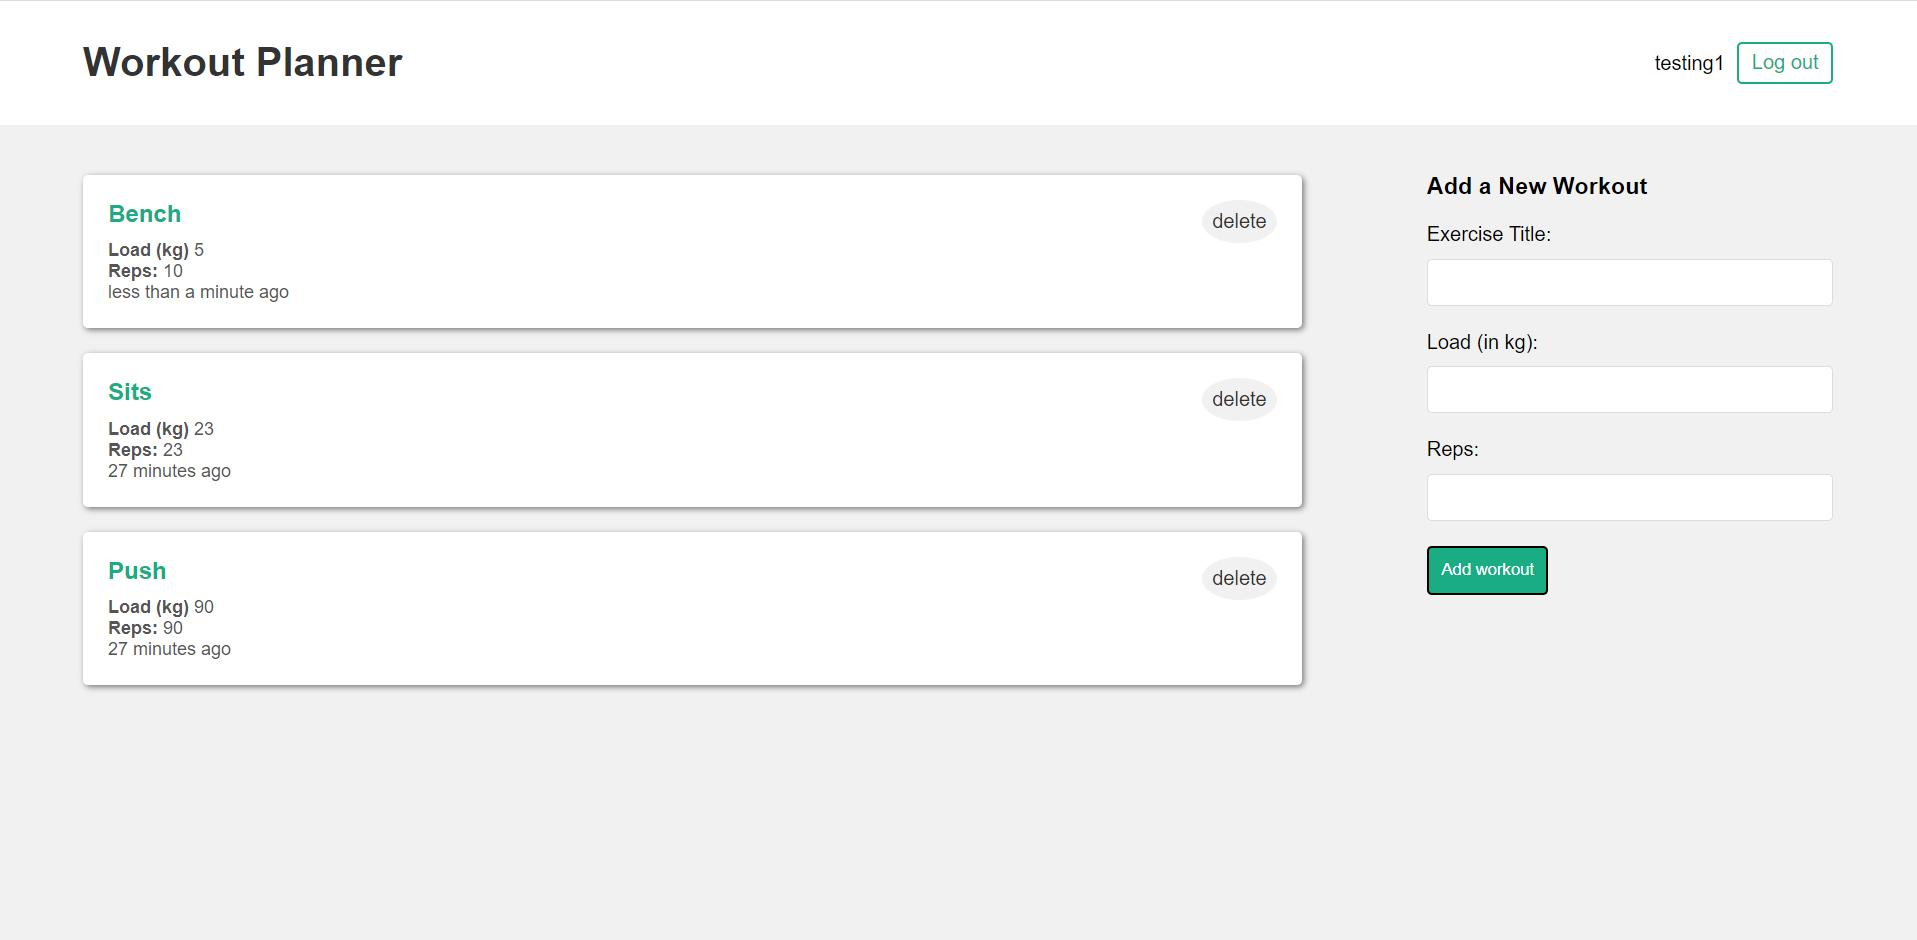
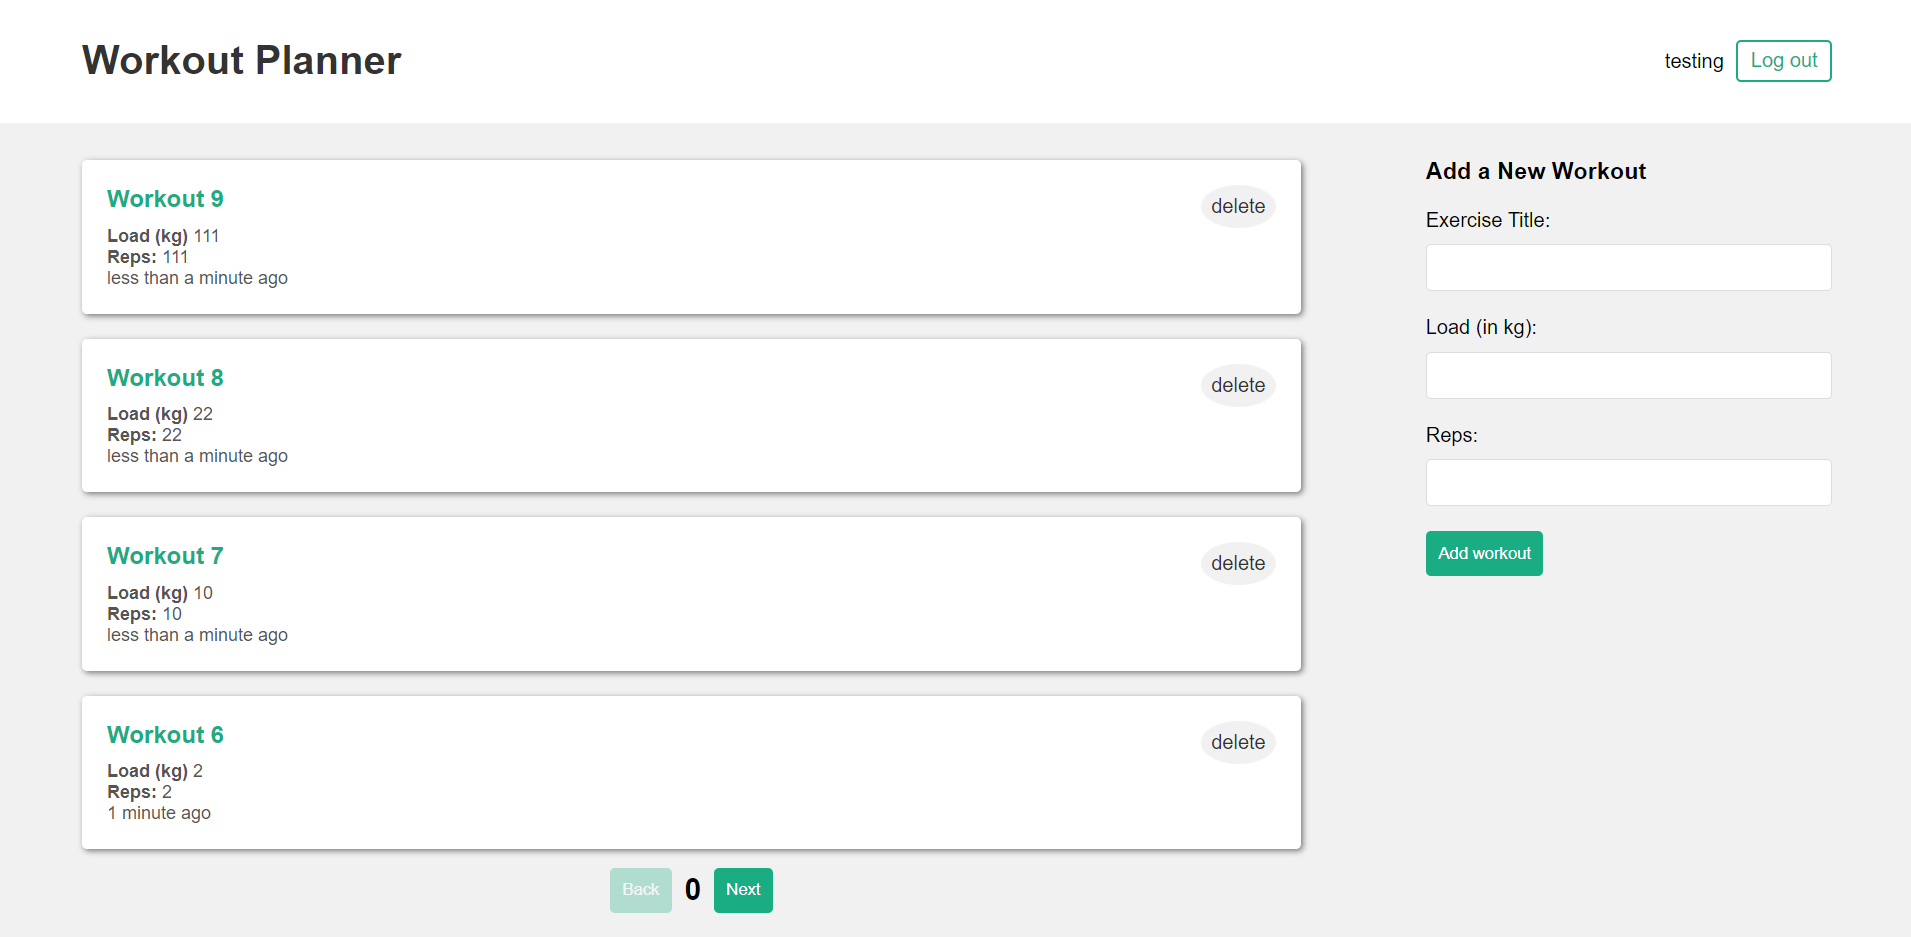
Implemented server side pagination and updated the readMe

diff --git a/frontend/src/pages/Home.js b/frontend/src/pages/Home.js
@@ -1,43 +1,76 @@
-import { useEffect } from "react";
+import { useEffect, useState } from "react";
 import { useWorkoutsContext } from "../hooks/useWorkoutsContext";
-import {useAuthContext} from "../hooks/useAuthContext.js";
+import { useAuthContext } from "../hooks/useAuthContext.js";
 
 //components
 import WorkoutDetails from "../components/WorkoutDetails";
 import WorkoutForm from "../components/WorkoutForm";
 
-const Home = () => {
-    const {workouts, dispatch} = useWorkoutsContext();
-    const {user} = useAuthContext();
+const Home = (props) => {
+    const { workouts, dispatch } = useWorkoutsContext();
+    const { user } = useAuthContext();
+    //determine if there are anymore pages to go to
+    const [ended, setEnded] = useState(false);
+    const [refresh, setRefresh] = useState(false);
+    const [maxPage, setMaxPage] = useState(0);
 
     //fetch all workouts only once, when the component first renders
-    useEffect( () => {
+    useEffect(() => {
         const fetchWorkouts = async () => {
-            const response = await fetch("/api/workouts", {
+            const response = await fetch("/api/workouts/?page=" + props.page + "&size=" + props.size, {
                 headers: {
                     "Authorization": `Bearer ${user.token}`,
                 },
             });
             const data = await response.json();
-
+        
             if (response.ok) {
                 //using context to store all the info
-                dispatch({type:"SET_WORKOUTS", payload: data});
+                dispatch({ type: "SET_WORKOUTS", payload: data.workouts });
+                setEnded(data.ended);
+            } else {
+                console.log("Error: " + data.error);
             }
         }
         if (user) {
             fetchWorkouts();
         }
-    }, [dispatch, user]);
+    }, [dispatch, user, props.page, props.size, refresh]);
 
-    return ( 
+    const nextPage = () => {
+        props.setPage(props.page + 1);
+    }
+
+    const backPage = () => {
+        if (props.page > 1) {
+            props.setPage(props.page - 1);
+        } else {
+            props.setPage(0);
+        }
+    }
+
+    useEffect(() => {
+        //current page == max num pages, then no next
+        if (props.page === maxPage) {
+            setEnded(true);
+        } else {
+            setEnded(false);
+        }
+    }, [maxPage, props.page]);
+
+    return (
         <div className="home">
             <div className="workouts">
                 {workouts && workouts.map((workout) => {
-                    return <WorkoutDetails key={workout._id} workout={workout} />
+                    return <WorkoutDetails forceRefresh={setRefresh} refresh={refresh} page={props.page} setPage={props.setPage} size={props.size} key={workout._id} workout={workout} />
                 })}
+                {workouts && <div className="pageChange">
+                    <button disabled={props.page === 0} onClick={backPage}>Back</button>
+                    <p>{props.page}</p>
+                    <button disabled={ended} onClick={nextPage}>Next</button>
+                </div>}
             </div>
-            <WorkoutForm />
+            <WorkoutForm page={props.page} setPage={props.setPage} size={props.size} maxPage={maxPage} setMax={setMaxPage}/>
         </div>
     )
 };

diff --git a/frontend/src/components/WorkoutForm.js b/frontend/src/components/WorkoutForm.js
@@ -2,8 +2,8 @@ import { useState } from "react";
 import { useWorkoutsContext } from "../hooks/useWorkoutsContext";
 import { useAuthContext } from "../hooks/useAuthContext";
 
-const WorkoutForm = () => {
-    const {dispatch} = useWorkoutsContext();
+const WorkoutForm = ({page, setPage, size, maxPage, setMax}) => {
+    const {workouts, dispatch} = useWorkoutsContext();
     const [title, setTitle] = useState('');
     const [load, setLoad] = useState('');
     const [reps, setReps] = useState('');
@@ -40,8 +40,27 @@ const WorkoutForm = () => {
             setLoad("");
             setError(null);
             setEmptyFields([]);
-            console.log("New workout added", data);
-            dispatch({type: "CREATE_WORKOUT", payload: data});
+            //update pagination
+            updatePagination(workouts.length);
+            //added to only the home page since it's sorted by time created
+            if (page === 0) {
+                dispatch({type: "CREATE_WORKOUT", payload: data});
+            }
+        }
+    }
+
+    const updatePagination = (length) => {
+        //that page only had 1 item
+        if (length === 1) {
+            if (page > 1) {
+               setPage(page - 1); 
+            } else {
+                setPage(0);
+            }
+        //needed to move a workout over so i delete from screen and on next page request it'll show up
+        } else if (length === size) {
+            dispatch({type: "DELETE_WORKOUT", payload: workouts[length-1]});
+            setMax(maxPage+1);
         }
     }
 

diff --git a/server/controllers/workoutController.js b/server/controllers/workoutController.js
@@ -2,12 +2,35 @@ const Workout = require("../models/workoutModel.js");
 const mongoose = require("mongoose");
 
 //get all workouts
+//with pagination (has a start page index and number of pages to get)
 const get_workouts = async (req, res) => {
+    
     const user_id = req.user._id;
-
+    //start at 0
+    let pageNum = parseInt(req.query.page);
+    let numItems = parseInt(req.query.size);
+    if (pageNum < 0 || numItems < 0) {
+        res.status(400).json({error: "Invalid page number or number of items per page"});
+    }
+    //gets all of the workouts and sort it
     const workouts = await Workout.find({user_id}).sort({createdAt: -1});
 
-    res.status(200).json(workouts);
+    const pagedWorkouts = [];
+    let ended = false;
+    //extract the paged values
+    for (let i = (pageNum*numItems); i < (pageNum*numItems)+numItems; i++) {
+        //ran out of workouts for the page
+        if (i >= workouts.length) {
+            break;
+        }
+        pagedWorkouts.push(workouts[i]);
+    }
+    //if user requests the last page let them know
+    if ( (pageNum*numItems)+(numItems) >= workouts.length) {
+        ended = true;
+    }
+
+    res.status(200).json({"workouts": pagedWorkouts, ended});
 }
 
 //get a single workout

diff --git a/frontend/src/components/WorkoutDetails.js b/frontend/src/components/WorkoutDetails.js
@@ -2,8 +2,8 @@ import { useWorkoutsContext } from "../hooks/useWorkoutsContext";
 import formatDistanceToNow from "date-fns/formatDistanceToNow";
 import { useAuthContext } from "../hooks/useAuthContext";
 
-const WorkoutDetails = ({workout}) => {
-    const {dispatch} = useWorkoutsContext();
+const WorkoutDetails = ({page, setPage, workout, forceRefresh, refresh}) => {
+    const {workouts, dispatch} = useWorkoutsContext();
     const {user} = useAuthContext();
 
     const handleClick = async () => {
@@ -19,9 +19,25 @@ const WorkoutDetails = ({workout}) => {
         const data = await response.json();
 
         if (response.ok) {
+            updatePagination(workouts.length);
+            //remove some workout
             dispatch({type: "DELETE_WORKOUT", payload: data});
         }
     }
+
+    const updatePagination = (length) => {
+        //that page only had 1 item
+        if (length === 1) {
+            if (page > 1) {
+               setPage(page - 1); 
+            } else {
+                setPage(0);
+            }
+        } else {
+            forceRefresh(!refresh);
+        }
+    }
+
     return(
         <div className="workout-details">
             <h4>{workout.title}</h4>

diff --git a/frontend/src/index.css b/frontend/src/index.css
@@ -33,7 +33,7 @@ header a {
 
 .pages {
   max-width: 1400px;
-  padding: 20px;
+  padding: 10px 20px;
   margin: 0 auto;
 }
 
@@ -50,6 +50,7 @@ header a {
   background: #fff;
   border-radius: 4px;
   margin: 20px auto;
+  margin-bottom: 10px;
   padding: 20px;
   position: relative;
   box-shadow: 2px 2px 5px rgba(0,0,0,0.5);
@@ -96,7 +97,7 @@ input {
 
 form button {
   background: var(--primary);
-  border: o;
+  border: 0;
   color: #fff;
   padding: 10px;
   font-family: Arial, Helvetica, sans-serif;
@@ -144,4 +145,36 @@ form.signup, form.login {
   padding: 20px;
   background: white;
   border-radius: 4px;
+}
+
+.pageChange {
+  display: flex;
+  justify-content: center;
+  align-items: center;
+  margin: 0;
+  padding: 0;
+  padding-top: 5px;
+}
+
+.pageChange button {
+  background: var(--primary);
+  border: 0;
+  color: #fff;
+  padding: 10px;
+  font-family: Arial, Helvetica, sans-serif;
+  border-radius: 4px;
+  cursor: pointer;
+}
+.pageChange button:disabled {
+  background: var(--primary);
+  opacity: 0.3;
+}
+
+.pageChange p {
+  margin: 0;
+  padding: 0;
+  padding-left: 10px;
+  padding-right: 10px;
+  font-weight: 600;
+  font-size: 1.5em;
 }

diff --git a/frontend/src/App.js b/frontend/src/App.js
@@ -1,6 +1,6 @@
 import {BrowserRouter, Routes, Route, Navigate} from "react-router-dom";
 import { useAuthContext } from "./hooks/useAuthContext.js";
-
+import { useState } from "react";
 //pages and components
 import Home from "./pages/Home.js";
 import Navbar from "./components/Navbar";
@@ -9,6 +9,8 @@ import Signup from "./pages/Signup.js";
 
 function App() {
   const {user} = useAuthContext();
+  const [page, setPage] = useState(0);
+  const pageSize = 4;
 
   return (
     <div className="App">
@@ -18,7 +20,7 @@ function App() {
           <Routes>
             <Route 
               path="/"
-              element={user ? <Home /> : <Navigate to="/login" />} 
+              element={user ? <Home page={page} setPage={setPage} size={pageSize}/> : <Navigate to="/login" />} 
             />
             <Route
               path="/login"

diff --git a/README.md b/README.md
@@ -1,17 +1,18 @@
-# Workout Planner (MERN stack) with JWT auth
+# Workout Planner (MERN stack) with JWT Auth
 
 ## Description
-- This is a MERN stack application for keeping track of workouts for every user
-- The project follows the MVC design pattern
-- The front end uses React hooks like useContext, useReducer and custom hooks. It also uses CSS
+ - This is a MERN stack application for keeping track of workouts for individual user's
+ - The project follows the MVC design pattern
+ - The front end uses React hooks like useContext, useReducer and custom hooks. It also uses CSS and a little bit of HTML
  - The backend uses Node.js, Express.js and connects to MongoDB Atlas (A cloud version of MongoDB) with Mongoose
- - I used JWT for authorization to access data specific to the user
+ - I implemented server side pagination at 4 workouts per page where the user fetches more data when the go to the next page
+ - I used JWT for authorization to access data specific to the user (Currently the token is stored in local storage, I am aware of the security risk and will be saving it in a secure cookie)
  - User's only see their own workouts and that is enforced by the JWTs
  - Currently not hosted, I have plans to add some more features and then I will host it using AWS
-  - Future plans: Implement pagination and an edit feature
+  - Future plans: Store JWT in a secure location and make an edit feature
 
  ## Current look
-  - This is what it currently looks like
+  - This is what it currently looks like (currently not hosted)
 
   - ### Login page
   ![A picture of the log in page where the user must enter a valid email and password](readMeImages/workoutAppLogin.png)
@@ -21,6 +22,9 @@
 
   - ### Workouts for the current user
   ![A picture of the main page which shows multiple workouts and their info as well as a form to create and add new workouts](readMeImages/workoutAppWorkouts.png)
+
+  - ### Page 2 of the workouts
+  ![A picture of the second page of user workouts](readMeImages/workoutAppWorkoutsPage2.png)
 
  ## Demo
   - To run it locally you will need to clone the repo
